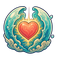
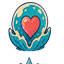
fix: flatten skill art paint treatment

diff --git a/tests/smoke/battle-assets.spec.ts b/tests/smoke/battle-assets.spec.ts
@@ -1,5 +1,6 @@
 import { existsSync } from 'node:fs';
 import { readFile } from 'node:fs/promises';
+import { execFileSync } from 'node:child_process';
 import { join } from 'node:path';
 import { fileURLToPath } from 'node:url';
 import { describe, expect, it } from 'vitest';
@@ -107,5 +108,7 @@ describe('production skill art', () => {
     const metadata = parseWebpMetadata(buffer);
     expect(metadata.dimensions).toEqual([width, height]);
     expect(metadata.hasAlpha, `${name} alpha channel`).toBe(true);
+    const extrema = execFileSync('python', ['-c', "from PIL import Image; import sys; print(Image.open(sys.argv[1]).convert('RGBA').getchannel('A').getextrema())", assetPath], { encoding: 'utf8' });
+    expect(extrema.trim(), `${name} decoded alpha pixels`).toMatch(/^\(0, 255\)$/);
   });
 });
